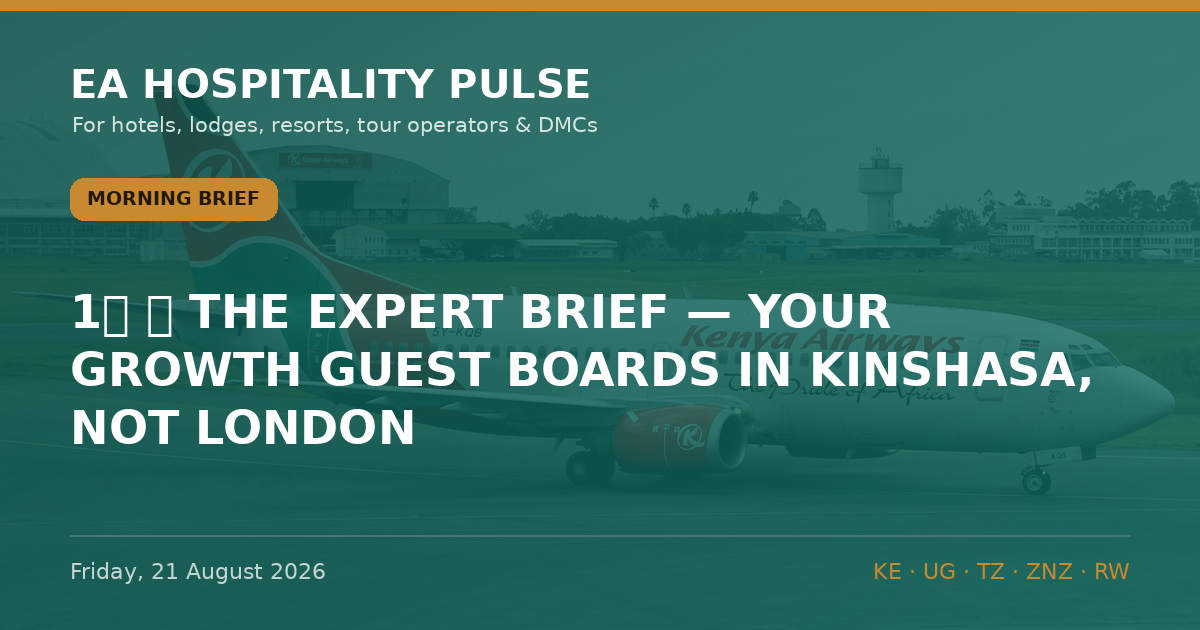
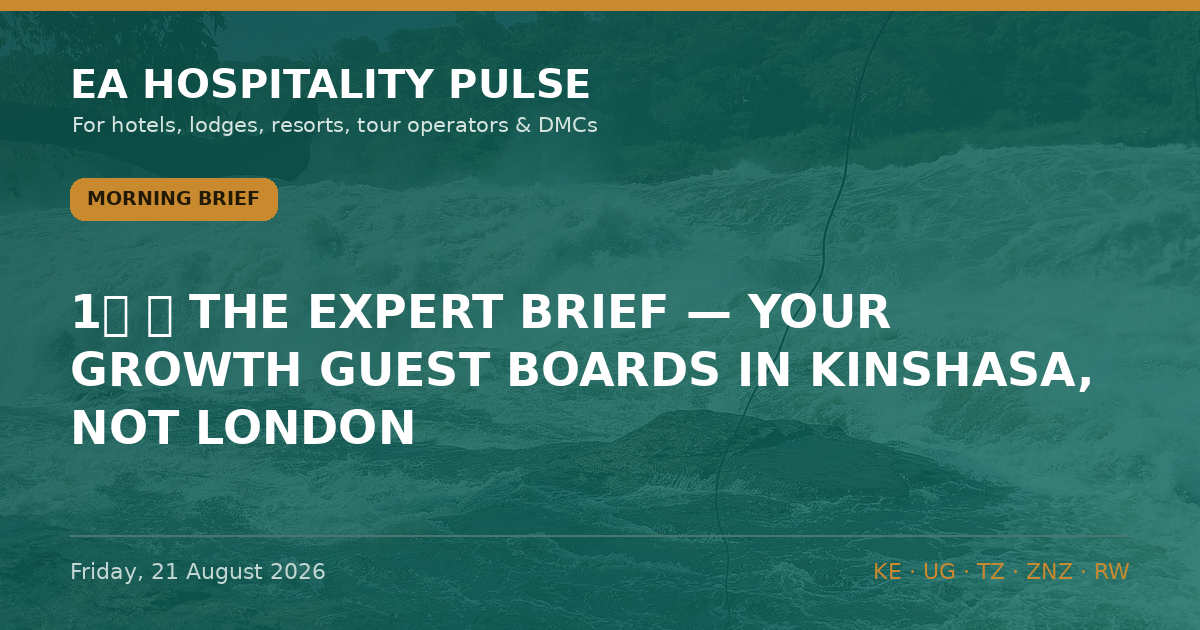
Auto-build: 2026-08-21 05:46 UTC

diff --git a/data.js b/data.js
@@ -45,15 +45,6 @@ window.EDITIONS = [
   "bodyHtml": "<p>☀ <strong>MORNING BRIEF — Tue 19 Aug 2026</strong><br><em>Quiet news slot — one expert read that matters more than any headline.</em></p>\n<p><strong>YOUR FASTEST-GROWING GUEST IS YOUR NEIGHBOUR — AND YOUR GOVERNMENT IS TAXING THEM AT THE BASE</strong></p>\n<p>Read the 2025 source-market tables and the story stops being about Europe. Uganda sent Kenya <strong>234,556 visitors in 2025 — 31% of all African arrivals, up 8.7%</strong>; Tanzania <strong>209,536, up 7.7%</strong> (KTB/TRI data via POATE 2026, reported by Citizen Digital &amp; New Vision). Kenya now targets <strong>300,000 Ugandan arrivals</strong>. In Rwanda it&#x27;s starker: the <strong>DRC is now the single largest source market — 185,420 visitors in H1 2026, 12.5% of all international arrivals</strong> (RDB). The regional guest is the base load now, not the overflow.</p>\n<p><strong>What most operators miss:</strong> the guest base changed but the playbook didn&#x27;t. The marginal booking now comes from a traveller who ignores Western Level-3 advisories, books short, drives or short-hauls in, and pays in a regional currency — yet we still run a long-haul-dollar operation: USD rack rates, GDS/OTA distribution, risk comms aimed at Europe. Worse, the same treasuries celebrating this demand are taxing its most price-sensitive flyer. Kenya&#x27;s JKIA passenger levy is now <strong>pledged to bondholders</strong> (Business Daily, 24 Jul) — hard to cut — with a 2% short-term-rental levy and a proposed travel-health-insurance charge stacking on top. Regional demand shrugs off advisories but is exquisitely sensitive to a $20 levy.</p>\n<p><span class=\"sowhat\">🎯 <strong>So what — by segment:</strong></span><br>🏙 <strong>City:</strong> regional corporate, VFR and events traffic is your steadiest base — build regional-agent and WhatsApp distribution, quote in regional terms, not just a USD rack. 🌿 <strong>Bush:</strong> regional guests are lower-ADR but fill shoulder/low season and hedge advisory-driven long-haul softness — watch the total trip cost, because a park-fee-plus-air-levy stack is what loses them. 🏖 <strong>Beach:</strong> the drive-and-short-haul market (Ugandans/Tanzanians to Diani &amp; Mombasa, regional flyers to Zanzibar) is now year-round base load — protect it from feeder-route fragility and levy creep.<br><span class=\"tagline\">🏷 Regional · Confirmed (KTB/TRI 2025, RDB H1 2026) / Inference on operator response.</span></p>\n<hr class=\"divider\">\n<p>✅ <strong>STILL TRUE</strong> — No EA advisory moved. Kenya <strong>US Level 2</strong> (core corridors, Diani, Watamu clear); Tanzania &amp; Zanzibar <strong>Level 3</strong> (since 31 Oct 2025); Uganda <strong>US Level 4</strong> on residual Ebola grounds despite its 28 Jul outbreak-over call (travel.state.gov, verified 12 Aug). The regional guest travels through all of it — don&#x27;t discount as though it had lifted.<br>💷 <strong>COST PULSE</strong> — Price regional in regional money: KES→UGX <strong>28.36</strong> · KES→TZS <strong>20.30</strong> · KES→RWF <strong>11.31</strong> (CBK weekly). Kenya diesel <strong>KSh 217.86/L</strong> (EPRA, 14 Aug) — refuse any supplier fuel surcharge this cycle.<br><span class=\"meta-line\">📅 <strong>WEEK AHEAD</strong> — <strong>19–21 Aug</strong> Hotel Expo Kenya, KICC · <strong>18–20 Aug</strong> AfPIF, Kigali Marriott · late Aug KNBS/UBOS/NISR CPI · <strong>26–28 Aug</strong> Africa Global PR Week, Nairobi · <strong>4 Sep</strong> Kwita Izina, Musanze.</span><br><span class=\"meta-line\">📡 <strong>RADAR</strong> — 470 in-window observations to 08:38 EAT; feed live. No EA advisory moved (only Mauritania/Netherlands/Ecuador flagged). Jambojet &amp; Airlink press pages moved behind Incapsula — a persistent blind spot, not news. Kenya Law feed heavy with court judgments, none hospitality.</span></p>\n<p>🔗 This edition on the web: https://eahospitalitypulse.com/editions/pulse-2026-08-19-morning.html</p>"
  },
  {
-  "id": "pulse-2026-08-18-special",
-  "date": "2026-08-18",
-  "dateDisplay": "Tuesday, 18 August 2026",
-  "edition": "Morning Brief",
-  "editionKey": "morning",
-  "summary": "1⃣ 🇰🇪 THE COAST IS OUTGROWING THE GATEWAY — AND THE NATIONAL NUMBER HIDES IT",
-  "bodyHtml": "<p>📊 <strong>EA HOSPITALITY PULSE — Special Edition</strong><br>🗓 Tuesday 18 August 2026 | 🇰🇪 KNBS data drop</p>\n<p><em>Kenya&#x27;s arrivals are up — but not where the headline says. Read the map before the margin.</em><br>━━━━━━━━━<br><strong>1⃣ 🇰🇪 THE COAST IS OUTGROWING THE GATEWAY — AND THE NATIONAL NUMBER HIDES IT</strong></p>\n<p>Official visitor arrivals now run through April. Jan–Apr 2026: <strong>828,830, up 9.5%</strong> on the same months of 2025 (757,245) — Kenya Leading Economic Indicators, June 2026, KNBS, released 14 Aug.</p>\n<p>The headline is real. The distribution is the story. Mombasa&#x27;s Moi International (MIA) took <strong>96,701 arrivals, up 19.7%</strong> year-on-year, while JKIA grew <strong>8.5%</strong> and land borders <strong>7.5%</strong>. The coast is recovering over twice as fast as the Nairobi gateway.</p>\n<p><strong>What everyone is missing:</strong> the +9.5% is not evenly yours. In April — the long-rains trough — national arrivals rose just 2.9% and <strong>JKIA fell 1.0%</strong> YoY. Strip the coast out and the city-gateway recovery is modest and seasonal. A Nairobi GM reading &quot;+9.5%&quot; as their own demand is reading the wrong line. Backing it: SGR passengers ran <strong>~12% ahead</strong> in Q1 — the Nairobi–Mombasa corridor is carrying this (KNBS).</p>\n<p><span class=\"tagline\">🏷 City/Beach · Kenya · Confirmed (KNBS arrivals &amp; SGR) / Inference (regional read)</span><br><span class=\"sowhat\">🎯 <strong>So what:</strong> <strong>Coast</strong> — demand is arriving; hold rate through the Sep–Oct build and stop discounting. <strong>Nairobi</strong> — treat H1 as flat-to-soft on your own gateway; win share through corporate, MICE and regional traffic, not a rising tide.</span></p>\n<p><strong>2⃣ 🇰🇪 THE CURRENCY IS QUIETLY REPRICING YOUR EUROPEAN GUEST</strong></p>\n<p>Over H1 2026 the shilling <strong>firmed</strong> against sterling (174.32→<strong>172.72</strong>) and the euro (151.37→<strong>149.22</strong>), flat against the dollar at <strong>~129.5</strong> (KNBS, June). Inflation sat at <strong>6.4%</strong>, the CBR held at <strong>8.75%</strong>.</p>\n<p>Read together: a European operator&#x27;s fixed FX budget now buys <strong>fewer shillings</strong> than in January — mild pressure on any KES-cost property selling into Europe, while dollar-priced lodges keep their spread intact.</p>\n<p><span class=\"tagline\">🏷 City/Bush/Beach · Kenya · Confirmed (KNBS forex/CPI) / Inference (pricing read)</span><br><span class=\"sowhat\">🎯 <strong>So what:</strong> If you cost in shillings and sell in euros or pounds, revisit 2027 contract rates now — the FX drift is against you. Price in USD and you&#x27;re insulated.</span></p>\n<p>━━━━━━━━━<br>🍲 <strong>SUPPLY-CHAIN SIDEBAR — where your southern-circuit kitchen shops</strong></p>\n<p>Informal cross-border trade <strong>fell 16.7%</strong> in 2025 (KSh 299.0m→249.1m), and <strong>Tanzania became the top source of informal imports at 47.2%</strong>, overwhelmingly <strong>food and live animals (78.5%)</strong> — KNBS Informal Cross-Border Trade Survey 2025, released 17 Aug. Main entry points: <strong>Namanga, Isebania, Malaba</strong> — the Amboseli, Mara and Uganda corridors.</p>\n<p><span class=\"sowhat\">🎯 <strong>So what:</strong> Southern-circuit lodges run partly on this informal Tanzanian fresh-food flow. A contracting, Tanzania-concentrated supply line is a produce-cost and continuity risk — worth a word with your F&amp;B suppliers before high season. 🏷 Bush · Confirmed (KNBS ICBT) / Inference.</span></p>\n<p>━━━━━━━━━<br>✅ <strong>STILL TRUE</strong> — Kenya remains US <strong>Level 2</strong>; core corridors (Nairobi, Diani, Watamu) sit in no Level 4 area (travel.state.gov, verified 12 Aug). Don&#x27;t discount on a story that hasn&#x27;t moved.</p>\n<p>⚡ <strong>COST PULSE</strong> — Nairobi diesel holds <strong>KSh 217.86/L</strong> to 14 Sep, ~KSh 14.28/L above landed-cost parity (EPRA / Business Daily, 14 Aug).</p>\n<p><span class=\"meta-line\">📅 <strong>WEEK AHEAD</strong> — <strong>19–21 Aug</strong> Hotel Expo Kenya, KICC · <strong>26–28 Aug</strong> Africa Global PR Week, Nairobi. Watch the <strong>May–June arrivals</strong> print to confirm the coast trend.</span></p>\n<p>🔗 This edition on the web: https://eahospitalitypulse.com/editions/pulse-2026-08-18-special.html<br>— EA Hospitality Pulse | Daily intelligence for city, bush &amp; beach properties</p>"
- },
- {
   "id": "pulse-2026-08-18-morning",
   "date": "2026-08-18",
   "dateDisplay": "Tuesday, 18 August 2026",
@@ -61,6 +52,15 @@ window.EDITIONS = [
   "editionKey": "morning",
   "summary": "1⃣ 🌍 THE AIRLIFT YOU'RE CELEBRATING IS THE LEAST PROFITABLE IN THE WORLD",
   "bodyHtml": "<p>🌅 <strong>EA HOSPITALITY PULSE — Morning Brief</strong><br>🗓 Tuesday 18 August 2026 | 🌍 🇰🇪 🇺🇬 🇷🇼 🇹🇿</p>\n<p><em>Expert Brief: East Africa is adding air routes faster than its airlines can afford to fly them.</em><br>━━━━━━━━━<br><strong>1⃣ 🌍 THE AIRLIFT YOU&#x27;RE CELEBRATING IS THE LEAST PROFITABLE IN THE WORLD</strong></p>\n<p>Every route launch lands as good news in this business. Uganda Airlines opens Entebbe–Accra on 27 Oct and daily Entebbe–Kigali on 18 Nov (announced 5 Aug, The EastAfrican); Airlink starts Cape Town–Zanzibar on 3 Oct. Read the balance sheet underneath and the mood changes.</p>\n<p>IATA&#x27;s December outlook put African carriers at <strong>US$1.30 of profit per passenger</strong> for 2026 against a <strong>US$7.90</strong> global average — a <strong>1.3% margin, the thinnest of any region</strong> (IATA, 9 Dec 2025). By its June AGM it had cut the 2026 line again: profit per passenger down to <strong>40 US cents</strong> from US$2.10 in 2025, and the continent&#x27;s total net profit halved to <strong>~US$100m</strong> (IATA &quot;Energy in Crisis&quot; outlook, 8 Jun 2026). East Africa&#x27;s recovery is riding on the most fragile airlift economics on the planet.</p>\n<p><strong>What everyone is missing:</strong> a new-route press release reads as demand arriving. It is actually thin-margin capacity being <strong>lent</strong> — and thin-margin capacity is the first thing cut when a season underperforms. Turkish suspended 18 routes for summer 2026, Istanbul–Dar es Salaam among them, final flights in May/June (reported 2026). The route you don&#x27;t help fill in its first two seasons is the route that isn&#x27;t there in year three. Airlift is not infrastructure you inherit; it&#x27;s a trade relationship you keep alive.</p>\n<p><span class=\"tagline\">🏷 City/Bush/Beach · Regional · Confirmed (IATA figures &amp; schedules) / Inference (fragility read)</span><br><span class=\"sowhat\">🎯 <strong>So what — by segment:</strong> <strong>City</strong> (Nairobi/Kigali/Kampala): put corporate blocks and MICE contracts onto the new regional frequencies so they survive to a third season. <strong>Bush:</strong> the luxury pivot means fewer, higher-value guests who still need a long-haul seat — cultivate the carriers that actually serve your source markets. <strong>Beach:</strong> feeder routes are the most fragile of all — a trial like Cape Town–Zanzibar lives or dies on load factor. Fill it or lose it.</span></p>\n<p>━━━━━━━━━<br>✅ <strong>STILL TRUE</strong> — Tanzania &amp; Zanzibar remain US <strong>Level 3</strong> (unchanged since 31 Oct 2025); Kenya <strong>Level 2</strong>, core tourist corridors clear (travel.state.gov, verified 12 Aug). Nothing moved overnight. Don&#x27;t discount as though it had.</p>\n<p>⚡ <strong>COST PULSE</strong> — Nairobi diesel holds at <strong>KSh 217.86/L</strong> to 14 Sep; operators are carrying roughly <strong>KSh 14.28/L above landed-cost parity</strong> — refuse any supplier fuel surcharge this cycle (EPRA / Business Daily, 14 Aug).</p>\n<p>🎤 <strong>MICE WATCH</strong> — <strong>AfPIF</strong> (300–500 delegates) fills the Kigali Marriott cluster <strong>18–20 Aug</strong>; <strong>Hotel Expo Kenya</strong> at KICC, <strong>19–21 Aug</strong>. Hold corporate rate, don&#x27;t discount into the shoulder.</p>\n<p><span class=\"meta-line\">📅 <strong>WEEK AHEAD</strong> — <strong>18 Aug</strong> WHO IHR Committee on the Bundibugyo PHEIC · <strong>22 Aug</strong> Julius Nyerere hydropower inauguration, TZ · <strong>26–28 Aug</strong> Africa Global PR Week, Mövenpick Nairobi · <strong>28 Aug</strong> WTA Africa Gala, Zanzibar · <strong>late Aug</strong> KNBS/UBOS/NISR CPI prints.</span></p>\n<p><span class=\"meta-line\">📡 <strong>RADAR</strong> — 593 in-window observations to 08:17 EAT; feed live. Jambojet and Airlink press pages moved again behind Incapsula — a persistent blind spot, not a quiet night. Kenya Law feed heavy with court judgments, none hospitality. No advisory level moved.</span></p>\n<p><span class=\"meta-line\">💬 Which inbound route would you actually miss — and are you filling it, or just watching it?</span></p>\n<p>🔗 This edition on the web: https://eahospitalitypulse.com/editions/pulse-2026-08-18-morning.html<br>— EA Hospitality Pulse | Daily intelligence for city, bush &amp; beach properties</p>"
+ },
+ {
+  "id": "pulse-2026-08-18-special",
+  "date": "2026-08-18",
+  "dateDisplay": "Tuesday, 18 August 2026",
+  "edition": "Morning Brief",
+  "editionKey": "morning",
+  "summary": "1⃣ 🇰🇪 THE COAST IS OUTGROWING THE GATEWAY — AND THE NATIONAL NUMBER HIDES IT",
+  "bodyHtml": "<p>📊 <strong>EA HOSPITALITY PULSE — Special Edition</strong><br>🗓 Tuesday 18 August 2026 | 🇰🇪 KNBS data drop</p>\n<p><em>Kenya&#x27;s arrivals are up — but not where the headline says. Read the map before the margin.</em><br>━━━━━━━━━<br><strong>1⃣ 🇰🇪 THE COAST IS OUTGROWING THE GATEWAY — AND THE NATIONAL NUMBER HIDES IT</strong></p>\n<p>Official visitor arrivals now run through April. Jan–Apr 2026: <strong>828,830, up 9.5%</strong> on the same months of 2025 (757,245) — Kenya Leading Economic Indicators, June 2026, KNBS, released 14 Aug.</p>\n<p>The headline is real. The distribution is the story. Mombasa&#x27;s Moi International (MIA) took <strong>96,701 arrivals, up 19.7%</strong> year-on-year, while JKIA grew <strong>8.5%</strong> and land borders <strong>7.5%</strong>. The coast is recovering over twice as fast as the Nairobi gateway.</p>\n<p><strong>What everyone is missing:</strong> the +9.5% is not evenly yours. In April — the long-rains trough — national arrivals rose just 2.9% and <strong>JKIA fell 1.0%</strong> YoY. Strip the coast out and the city-gateway recovery is modest and seasonal. A Nairobi GM reading &quot;+9.5%&quot; as their own demand is reading the wrong line. Backing it: SGR passengers ran <strong>~12% ahead</strong> in Q1 — the Nairobi–Mombasa corridor is carrying this (KNBS).</p>\n<p><span class=\"tagline\">🏷 City/Beach · Kenya · Confirmed (KNBS arrivals &amp; SGR) / Inference (regional read)</span><br><span class=\"sowhat\">🎯 <strong>So what:</strong> <strong>Coast</strong> — demand is arriving; hold rate through the Sep–Oct build and stop discounting. <strong>Nairobi</strong> — treat H1 as flat-to-soft on your own gateway; win share through corporate, MICE and regional traffic, not a rising tide.</span></p>\n<p><strong>2⃣ 🇰🇪 THE CURRENCY IS QUIETLY REPRICING YOUR EUROPEAN GUEST</strong></p>\n<p>Over H1 2026 the shilling <strong>firmed</strong> against sterling (174.32→<strong>172.72</strong>) and the euro (151.37→<strong>149.22</strong>), flat against the dollar at <strong>~129.5</strong> (KNBS, June). Inflation sat at <strong>6.4%</strong>, the CBR held at <strong>8.75%</strong>.</p>\n<p>Read together: a European operator&#x27;s fixed FX budget now buys <strong>fewer shillings</strong> than in January — mild pressure on any KES-cost property selling into Europe, while dollar-priced lodges keep their spread intact.</p>\n<p><span class=\"tagline\">🏷 City/Bush/Beach · Kenya · Confirmed (KNBS forex/CPI) / Inference (pricing read)</span><br><span class=\"sowhat\">🎯 <strong>So what:</strong> If you cost in shillings and sell in euros or pounds, revisit 2027 contract rates now — the FX drift is against you. Price in USD and you&#x27;re insulated.</span></p>\n<p>━━━━━━━━━<br>🍲 <strong>SUPPLY-CHAIN SIDEBAR — where your southern-circuit kitchen shops</strong></p>\n<p>Informal cross-border trade <strong>fell 16.7%</strong> in 2025 (KSh 299.0m→249.1m), and <strong>Tanzania became the top source of informal imports at 47.2%</strong>, overwhelmingly <strong>food and live animals (78.5%)</strong> — KNBS Informal Cross-Border Trade Survey 2025, released 17 Aug. Main entry points: <strong>Namanga, Isebania, Malaba</strong> — the Amboseli, Mara and Uganda corridors.</p>\n<p><span class=\"sowhat\">🎯 <strong>So what:</strong> Southern-circuit lodges run partly on this informal Tanzanian fresh-food flow. A contracting, Tanzania-concentrated supply line is a produce-cost and continuity risk — worth a word with your F&amp;B suppliers before high season. 🏷 Bush · Confirmed (KNBS ICBT) / Inference.</span></p>\n<p>━━━━━━━━━<br>✅ <strong>STILL TRUE</strong> — Kenya remains US <strong>Level 2</strong>; core corridors (Nairobi, Diani, Watamu) sit in no Level 4 area (travel.state.gov, verified 12 Aug). Don&#x27;t discount on a story that hasn&#x27;t moved.</p>\n<p>⚡ <strong>COST PULSE</strong> — Nairobi diesel holds <strong>KSh 217.86/L</strong> to 14 Sep, ~KSh 14.28/L above landed-cost parity (EPRA / Business Daily, 14 Aug).</p>\n<p><span class=\"meta-line\">📅 <strong>WEEK AHEAD</strong> — <strong>19–21 Aug</strong> Hotel Expo Kenya, KICC · <strong>26–28 Aug</strong> Africa Global PR Week, Nairobi. Watch the <strong>May–June arrivals</strong> print to confirm the coast trend.</span></p>\n<p>🔗 This edition on the web: https://eahospitalitypulse.com/editions/pulse-2026-08-18-special.html<br>— EA Hospitality Pulse | Daily intelligence for city, bush &amp; beach properties</p>"
  },
  {
   "id": "pulse-2026-08-17-evening",
@@ -2686,4 +2686,4 @@ window.INSIGHTS = [
   "editionKey": "evening"
  }
 ];
-window.BUILT_AT = "2026-08-21 08:43";
+window.BUILT_AT = "2026-08-21 05:45";

diff --git a/editions/pulse-2026-08-17-evening.html b/editions/pulse-2026-08-17-evening.html
@@ -139,7 +139,7 @@ footer.s{text-align:center;color:var(--muted);font-family:Helvetica Neue,Arial,s
 <p>🔗 This edition on the web: https://eahospitalitypulse.com/editions/pulse-2026-08-17-evening.html<br>💼 Today&#x27;s Big Read on LinkedIn: https://www.linkedin.com/company/ea-hospitality-pulse/<br>— EA Hospitality Pulse | Daily intelligence for city, bush &amp; beach properties</p>
     <div class="more"><b>More from Monday, 17 August 2026:</b> <a href="pulse-2026-08-17-midday.html">Midday Pulse</a></div>
     <aside class="refs" aria-label="Reference guides"><h2>Reference</h2><ul><li><a href="../guides/ota-commission-what-it-actually-costs.html">What OTA commission actually costs an East African hotel</a></li><li><a href="../guides/park-permit-fees-east-africa.html">Park and permit fees across East Africa: what to check before you quote</a></li><li><a href="../guides/sustainability-compliance-east-africa.html">Sustainability compliance in East Africa — plastics, carbon and certification, without the hype</a></li><li><a href="../guides/tech-stack-east-africa.html">The East African hotel tech stack — payment costs, PMS fit and where AI pricing actually works</a></li><li><a href="../guides/travel-advisories-what-actually-moves-bookings.html">Reading a travel advisory: what actually moves bookings</a></li></ul></aside>
-    <nav class="pnrow"><a class="pn prev" href="pulse-2026-08-17-midday.html" rel="prev">← Midday Pulse · Monday, 17 August 2026</a><a class="pn next" href="pulse-2026-08-18-morning.html" rel="next">Morning Brief · Tuesday, 18 August 2026 →</a></nav>
+    <nav class="pnrow"><a class="pn prev" href="pulse-2026-08-17-midday.html" rel="prev">← Midday Pulse · Monday, 17 August 2026</a><a class="pn next" href="pulse-2026-08-18-special.html" rel="next">Morning Brief · Tuesday, 18 August 2026 →</a></nav>
     <div class="sub">
       <b>Follow the Pulse</b> — three briefs a day across Kenya, Uganda, Tanzania, Zanzibar &amp; Rwanda.<br>
       <a href="https://t.me/eahospitalitypulse" target="_blank" rel="noopener">📣 Telegram (full editions)</a>

diff --git a/editions/pulse-2026-08-18-morning.html b/editions/pulse-2026-08-18-morning.html
@@ -141,7 +141,7 @@ footer.s{text-align:center;color:var(--muted);font-family:Helvetica Neue,Arial,s
 <p>🔗 This edition on the web: https://eahospitalitypulse.com/editions/pulse-2026-08-18-morning.html<br>— EA Hospitality Pulse | Daily intelligence for city, bush &amp; beach properties</p>
     <div class="more"><b>More from Tuesday, 18 August 2026:</b> <a href="pulse-2026-08-18-special.html">Morning Brief</a></div>
     <aside class="refs" aria-label="Reference guides"><h2>Reference</h2><ul><li><a href="../guides/ota-commission-what-it-actually-costs.html">What OTA commission actually costs an East African hotel</a></li><li><a href="../guides/park-permit-fees-east-africa.html">Park and permit fees across East Africa: what to check before you quote</a></li><li><a href="../guides/sustainability-compliance-east-africa.html">Sustainability compliance in East Africa — plastics, carbon and certification, without the hype</a></li><li><a href="../guides/tech-stack-east-africa.html">The East African hotel tech stack — payment costs, PMS fit and where AI pricing actually works</a></li><li><a href="../guides/travel-advisories-what-actually-moves-bookings.html">Reading a travel advisory: what actually moves bookings</a></li></ul></aside>
-    <nav class="pnrow"><a class="pn prev" href="pulse-2026-08-17-evening.html" rel="prev">← Evening Wrap · Monday, 17 August 2026</a><a class="pn next" href="pulse-2026-08-18-special.html" rel="next">Morning Brief · Tuesday, 18 August 2026 →</a></nav>
+    <nav class="pnrow"><a class="pn prev" href="pulse-2026-08-18-special.html" rel="prev">← Morning Brief · Tuesday, 18 August 2026</a><a class="pn next" href="pulse-2026-08-19-morning.html" rel="next">Morning Brief · Wednesday, 19 August 2026 →</a></nav>
     <div class="sub">
       <b>Follow the Pulse</b> — three briefs a day across Kenya, Uganda, Tanzania, Zanzibar &amp; Rwanda.<br>
       <a href="https://t.me/eahospitalitypulse" target="_blank" rel="noopener">📣 Telegram (full editions)</a>

diff --git a/editions/pulse-2026-08-18-special.html b/editions/pulse-2026-08-18-special.html
@@ -145,7 +145,7 @@ footer.s{text-align:center;color:var(--muted);font-family:Helvetica Neue,Arial,s
 <p>🔗 This edition on the web: https://eahospitalitypulse.com/editions/pulse-2026-08-18-special.html<br>— EA Hospitality Pulse | Daily intelligence for city, bush &amp; beach properties</p>
     <div class="more"><b>More from Tuesday, 18 August 2026:</b> <a href="pulse-2026-08-18-morning.html">Morning Brief</a></div>
     <aside class="refs" aria-label="Reference guides"><h2>Reference</h2><ul><li><a href="../guides/ota-commission-what-it-actually-costs.html">What OTA commission actually costs an East African hotel</a></li><li><a href="../guides/park-permit-fees-east-africa.html">Park and permit fees across East Africa: what to check before you quote</a></li><li><a href="../guides/sustainability-compliance-east-africa.html">Sustainability compliance in East Africa — plastics, carbon and certification, without the hype</a></li><li><a href="../guides/tech-stack-east-africa.html">The East African hotel tech stack — payment costs, PMS fit and where AI pricing actually works</a></li><li><a href="../guides/travel-advisories-what-actually-moves-bookings.html">Reading a travel advisory: what actually moves bookings</a></li></ul></aside>
-    <nav class="pnrow"><a class="pn prev" href="pulse-2026-08-18-morning.html" rel="prev">← Morning Brief · Tuesday, 18 August 2026</a><a class="pn next" href="pulse-2026-08-19-morning.html" rel="next">Morning Brief · Wednesday, 19 August 2026 →</a></nav>
+    <nav class="pnrow"><a class="pn prev" href="pulse-2026-08-17-evening.html" rel="prev">← Evening Wrap · Monday, 17 August 2026</a><a class="pn next" href="pulse-2026-08-18-morning.html" rel="next">Morning Brief · Tuesday, 18 August 2026 →</a></nav>
     <div class="sub">
       <b>Follow the Pulse</b> — three briefs a day across Kenya, Uganda, Tanzania, Zanzibar &amp; Rwanda.<br>
       <a href="https://t.me/eahospitalitypulse" target="_blank" rel="noopener">📣 Telegram (full editions)</a>

diff --git a/editions/pulse-2026-08-19-morning.html b/editions/pulse-2026-08-19-morning.html
@@ -136,7 +136,7 @@ footer.s{text-align:center;color:var(--muted);font-family:Helvetica Neue,Arial,s
 <p>🔗 This edition on the web: https://eahospitalitypulse.com/editions/pulse-2026-08-19-morning.html</p>
     <div class="more"><b>More from Wednesday, 19 August 2026:</b> <a href="pulse-2026-08-19-evening.html">Evening Wrap</a></div>
     <aside class="refs" aria-label="Reference guides"><h2>Reference</h2><ul><li><a href="../guides/ota-commission-what-it-actually-costs.html">What OTA commission actually costs an East African hotel</a></li><li><a href="../guides/park-permit-fees-east-africa.html">Park and permit fees across East Africa: what to check before you quote</a></li><li><a href="../guides/sustainability-compliance-east-africa.html">Sustainability compliance in East Africa — plastics, carbon and certification, without the hype</a></li><li><a href="../guides/tech-stack-east-africa.html">The East African hotel tech stack — payment costs, PMS fit and where AI pricing actually works</a></li><li><a href="../guides/travel-advisories-what-actually-moves-bookings.html">Reading a travel advisory: what actually moves bookings</a></li></ul></aside>
-    <nav class="pnrow"><a class="pn prev" href="pulse-2026-08-18-special.html" rel="prev">← Morning Brief · Tuesday, 18 August 2026</a><a class="pn next" href="pulse-2026-08-19-evening.html" rel="next">Evening Wrap · Wednesday, 19 August 2026 →</a></nav>
+    <nav class="pnrow"><a class="pn prev" href="pulse-2026-08-18-morning.html" rel="prev">← Morning Brief · Tuesday, 18 August 2026</a><a class="pn next" href="pulse-2026-08-19-evening.html" rel="next">Evening Wrap · Wednesday, 19 August 2026 →</a></nav>
     <div class="sub">
       <b>Follow the Pulse</b> — three briefs a day across Kenya, Uganda, Tanzania, Zanzibar &amp; Rwanda.<br>
       <a href="https://t.me/eahospitalitypulse" target="_blank" rel="noopener">📣 Telegram (full editions)</a>

diff --git a/editions/pulse-2026-08-21-morning.html b/editions/pulse-2026-08-21-morning.html
@@ -122,7 +122,7 @@ footer.s{text-align:center;color:var(--muted);font-family:Helvetica Neue,Arial,s
 <div class="wrap">
   <article class="art">
     <img class="hero" src="../og/pulse-2026-08-21-morning-clean.png" alt="Morning Brief — Friday, 21 August 2026" loading="eager">
-    
+    <p class="hcredit">Photo: BMKME · <a href="https://commons.wikimedia.org/wiki/File:White_Nile_Rapids_Near_Murchison_Falls_Viewing_Point,_Uganda_01.jpg" target="_blank" rel="noopener nofollow">Wikimedia Commons</a> · <a href="https://creativecommons.org/licenses/by-sa/4.0" target="_blank" rel="noopener nofollow">CC BY-SA 4.0</a></p>
     <nav class="crumbs" aria-label="Breadcrumb"><a href="../index.html">Home</a><span aria-hidden="true">/</span><a href="../index.html#archive">Editions</a><span aria-hidden="true">/</span><span aria-current="page">Morning Brief, Friday, 21 August 2026</span></nav>
     <div class="kicker"><span class="badge">Morning Brief</span><time datetime="2026-08-21">Friday, 21 August 2026</time></div>
     <h1>The Expert Brief — Your Growth Guest Boards in Kinshasa, Not London.</h1>

diff --git a/index.html b/index.html
@@ -456,7 +456,7 @@
   .imp-demand{color:var(--sage)} .imp-margin{color:var(--coral)} .imp-risk{color:#ff5b5b} .imp-watch{color:var(--amber)}
   @media(max-width:520px){.imp{position:static;display:inline-flex;margin:0 0 9px}.insight h3,.insight .imeta{padding-right:0}}
 </style>
-<!--BUILD_STAMP:20260821-0843--></head>
+<!--BUILD_STAMP:20260821-0545--></head>
 <body>
 <header class="site">
   <div class="wrap topbar">

diff --git a/ledger.js b/ledger.js
@@ -1,5 +1,5 @@
 window.LEDGER = {
- "updated": "2026-08-21 08:44",
+ "updated": "2026-08-21 05:46",
  "stats": {
   "total": 109,
   "open": 88,
